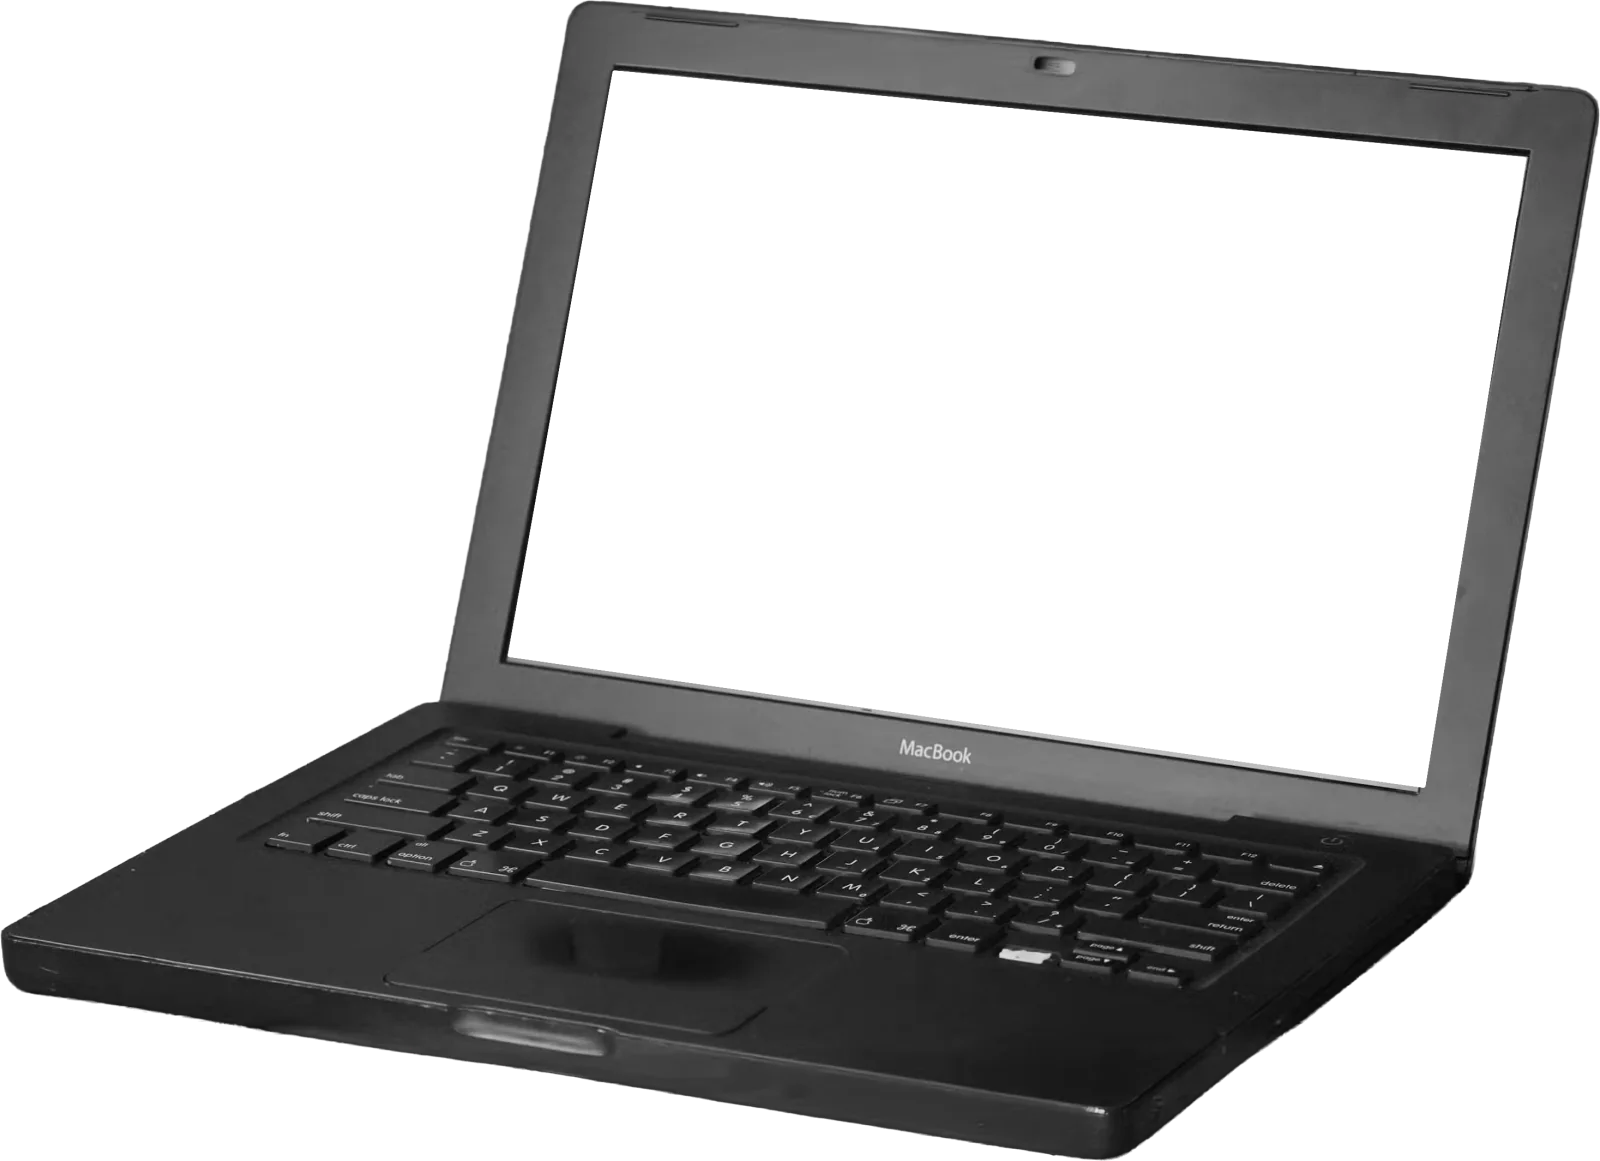
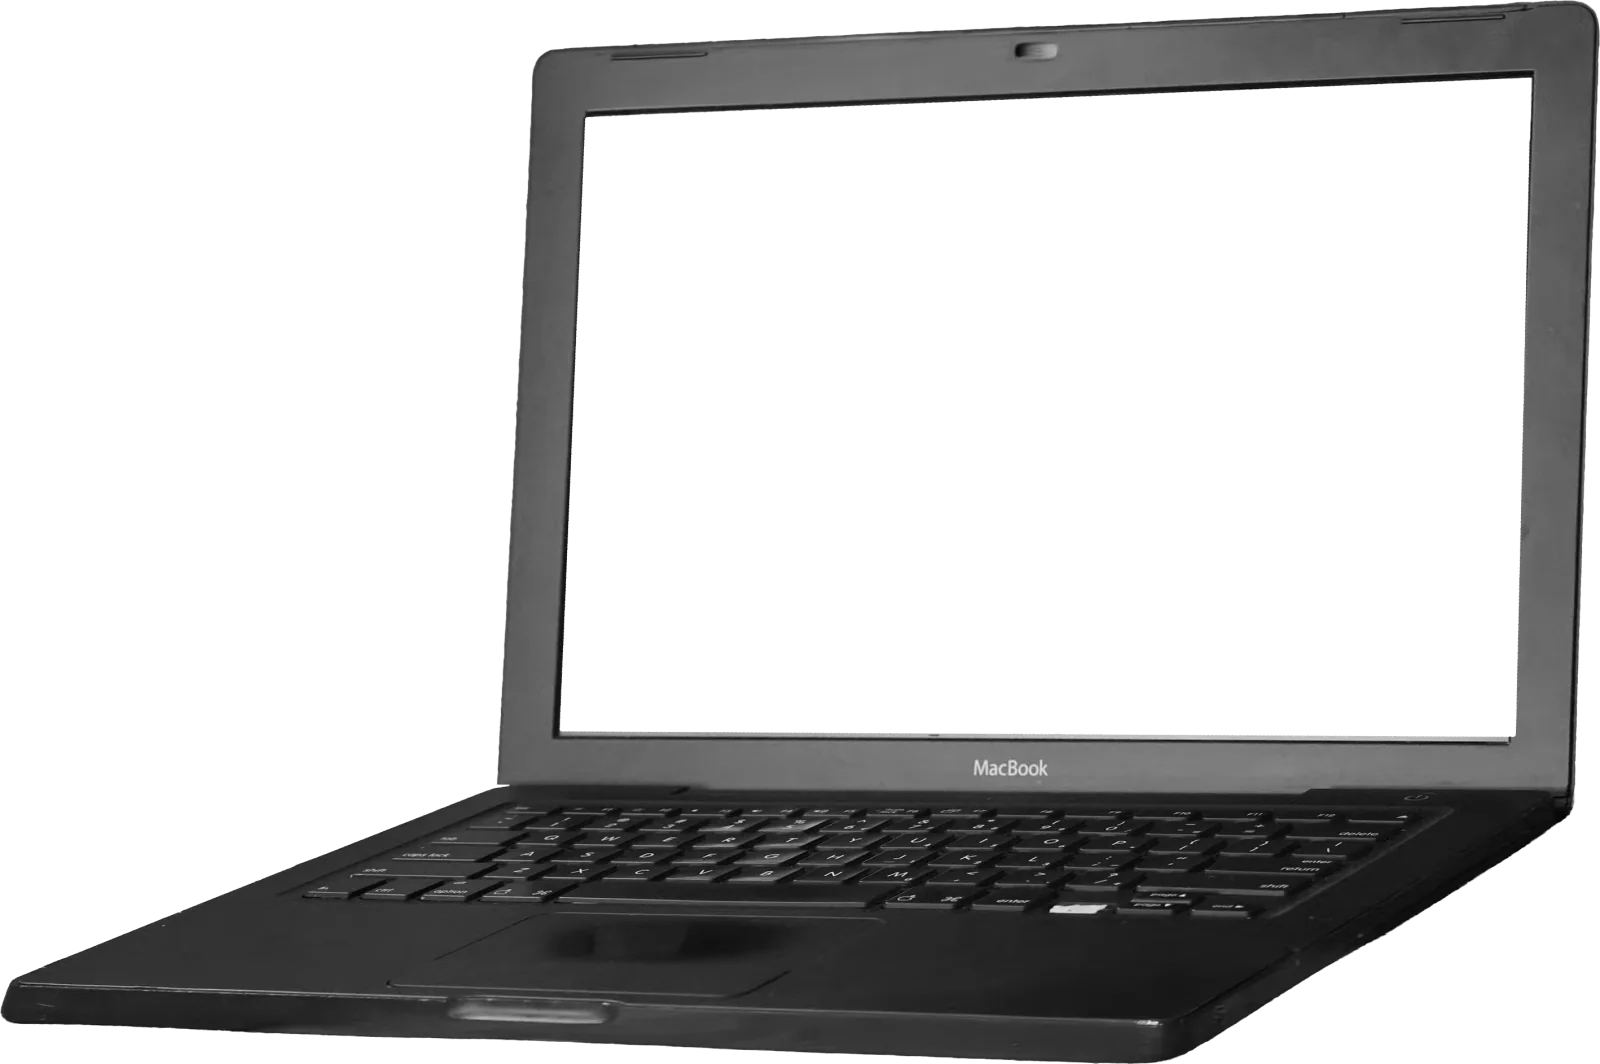
Swap in the clean laptop cutout
The first one was a photograph of a desk with a laptop on it, cut around the
whole vignette — speaker, cable and desktop included. This one is just the
laptop. New aspect ratio, new screen aperture, and re-seated on the amplifier.

Worth knowing for the next one: this laptop is shot straighter on, so its base
sits about 2 degrees off level where the old one sat 9. The rotation is doing
more work now, not less.

Claude-Session: https://claude.ai/code/session_011uBM32YuvHGiKM4VBzpnUY

Changed region(s): [[0.0, 0.0, 1.0, 1.0]]

diff --git a/app.js b/app.js
@@ -540,12 +540,12 @@ const objects = [
      on the wall plays something made somewhere else; this one plays the room
      it is standing in. */
   { id: 'laptop', slug: 'development', channel: 10, project: 'Development', z: 11,
-    /* Its base is a single point at 69% across the artwork, and that point has
-       to land on the amplifier's top plate — 8.9% down the amp, where the
-       cabinet reaches full width. Sat to the right of the tuner box. */
-    box:    { x: 78.9, y: 44.2, w: 14.0, rotate: -9 },
-    ar: 2934 / 2128,
-    screen: { x: 31.7, y: 6.1, w: 63.7, h: 61.8 },
+    /* Seated by measuring both artworks. The amplifier's cabinet only reaches
+       full width 8.9% down its own frame — that line is its top plate, and the
+       laptop's front-left corner has to land on it. */
+    box:    { x: 77.2, y: 43.9, w: 14.0, rotate: -9 },
+    ar: 2836 / 1885,
+    screen: { x: 35.0, y: 7.3, w: 60.7, h: 61.9 },
     crt: false,   // an LCD has no scan lines and no tube to darken at the corners
     content: {
       title: 'Development',
